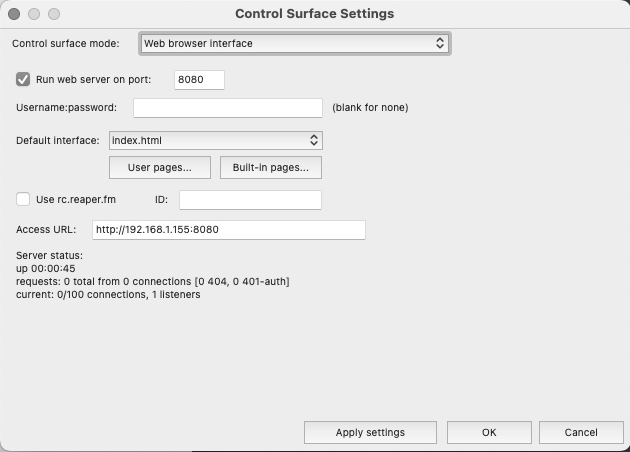
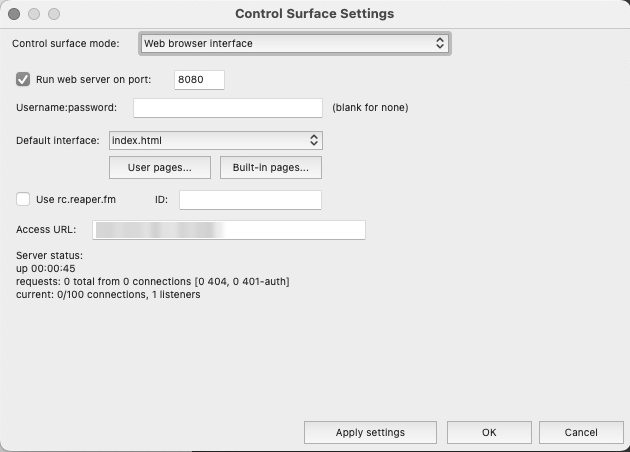
Blur the local address in the REAPER setup screenshot
Also use a generic example address in the README.

Claude-Session: https://claude.ai/code/session_01EFGUDhjXSJhFr7wHMCkzkm

Changed region(s): [[0.1508, 0.4646, 0.3619, 0.5265]]

diff --git a/README.md b/README.md
@@ -87,7 +87,7 @@ Installing takes two things: turning on REAPER's built-in web server, and copyin
 2. Click **Add** and, in **Control surface mode**, choose **Web browser interface**.
 3. Leave **Run web server on port** ticked. The default port is 8080: any free port works.
 4. Optional: set a user name and password in **Username:password**, written as `name:password`.
-5. Note the **Access URL** at the bottom of the dialog. It holds the address of the computer on your network and the port, for example `http://192.168.1.155:8080`. You will type it on the tablet.
+5. Note the **Access URL** at the bottom of the dialog. It holds the address of the computer on your network and the port, for example `http://192.168.1.50:8080`. You will type it on the tablet.
 6. Click **OK** in both windows.
 
 ![REAPER's Control Surface Settings dialog with the web browser interface enabled](docs/screenshots/reaper-web-interface-setup.png)
@@ -116,11 +116,11 @@ The page loads `main.js` from the same server, so there is nothing else to copy.
 2. In the browser type the Access URL followed by the file name, with `http://` at the start:
 
    ```
-   http://192.168.1.155:8080/reaper-studio-control.html
+   http://192.168.1.50:8080/reaper-studio-control.html
    ```
 
    Replace the address and port with the ones shown in your Access URL.
-3. Optional: to leave out the file name, choose `reaper-studio-control.html` in the **Default interface** menu of the same REAPER dialog. If it is not listed, reopen the dialog or restart REAPER. Then `http://192.168.1.155:8080` is enough.
+3. Optional: to leave out the file name, choose `reaper-studio-control.html` in the **Default interface** menu of the same REAPER dialog. If it is not listed, reopen the dialog or restart REAPER. Then `http://192.168.1.50:8080` is enough.
 4. Optional: to open the page without browser bars, use **Share → Add to Home Screen** on iOS, or **Add to Home screen** in the Chrome menu on Android.
 
 ### 4. Check that it works
